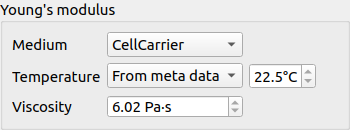
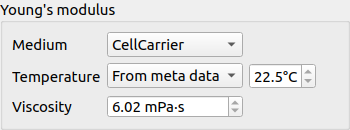
fix: units of viscosity is mPa*s (close #91)

Changed region(s): [[0.4, 0.7692, 0.5429, 0.8615]]

diff --git a/shapeout2/gui/widgets/so_colorbaritem.py b/shapeout2/gui/widgets/so_colorbaritem.py
@@ -45,7 +45,6 @@ class ShapeOutColorBarItem(pg.ColorBarItem):
         for key in ['left', 'top', 'bottom']:
             axis = self.getAxis(key)
             axis.setTicks([])
-            axis.translate(-5, 0)
         self.axis.setWidth(45)
 
         # set correct size and position
